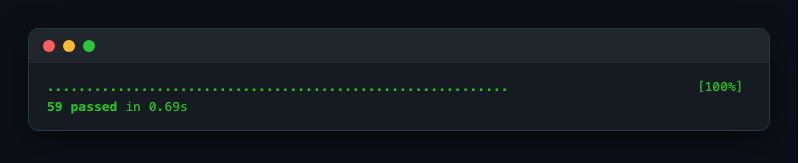
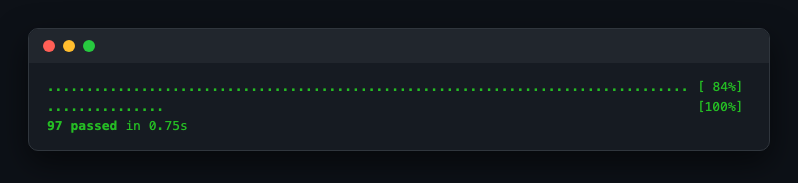
test: refresh visual evidence against hardened build

diff --git a/docs/screenshots/index.html b/docs/screenshots/index.html
@@ -34,7 +34,7 @@ figcaption { padding: .75rem .9rem; }
 <body>
 <header>
 <h1>shotlist screenshots</h1>
-<div class="sub">4 shots · generated 2026-07-22T22:20:24Z</div>
+<div class="sub">4 shots · generated 2026-07-22T23:00:15Z</div>
 </header>
 <div class="grid">
 <figure><img src="01-cli-help.png" alt="mcpstate --help showing the serve subcommand" loading="lazy"/><figcaption><span class="name">cli-help</span><span class="badge">cli</span><p class="alt">mcpstate --help showing the serve subcommand</p></figcaption></figure><figure><img src="02-test-suite.png" alt="full pytest suite green" loading="lazy"/><figcaption><span class="name">test-suite</span><span class="badge">cli</span><p class="alt">full pytest suite green</p></figcaption></figure><figure><img src="03-session-one-mints.png" alt="Session 1 mints a research handle and saves state" loading="lazy"/><figcaption><span class="name">session-one-mints</span><span class="badge">session</span><p class="alt">Session 1 mints a research handle and saves state</p></figcaption></figure><figure><img src="04-session-two-resumes.png" alt="A separate process lists and resumes the same state - the hand-off" loading="lazy"/><figcaption><span class="name">session-two-resumes</span><span class="badge">session</span><p class="alt">A separate process lists and resumes the same state - the hand-off</p></figcaption></figure>